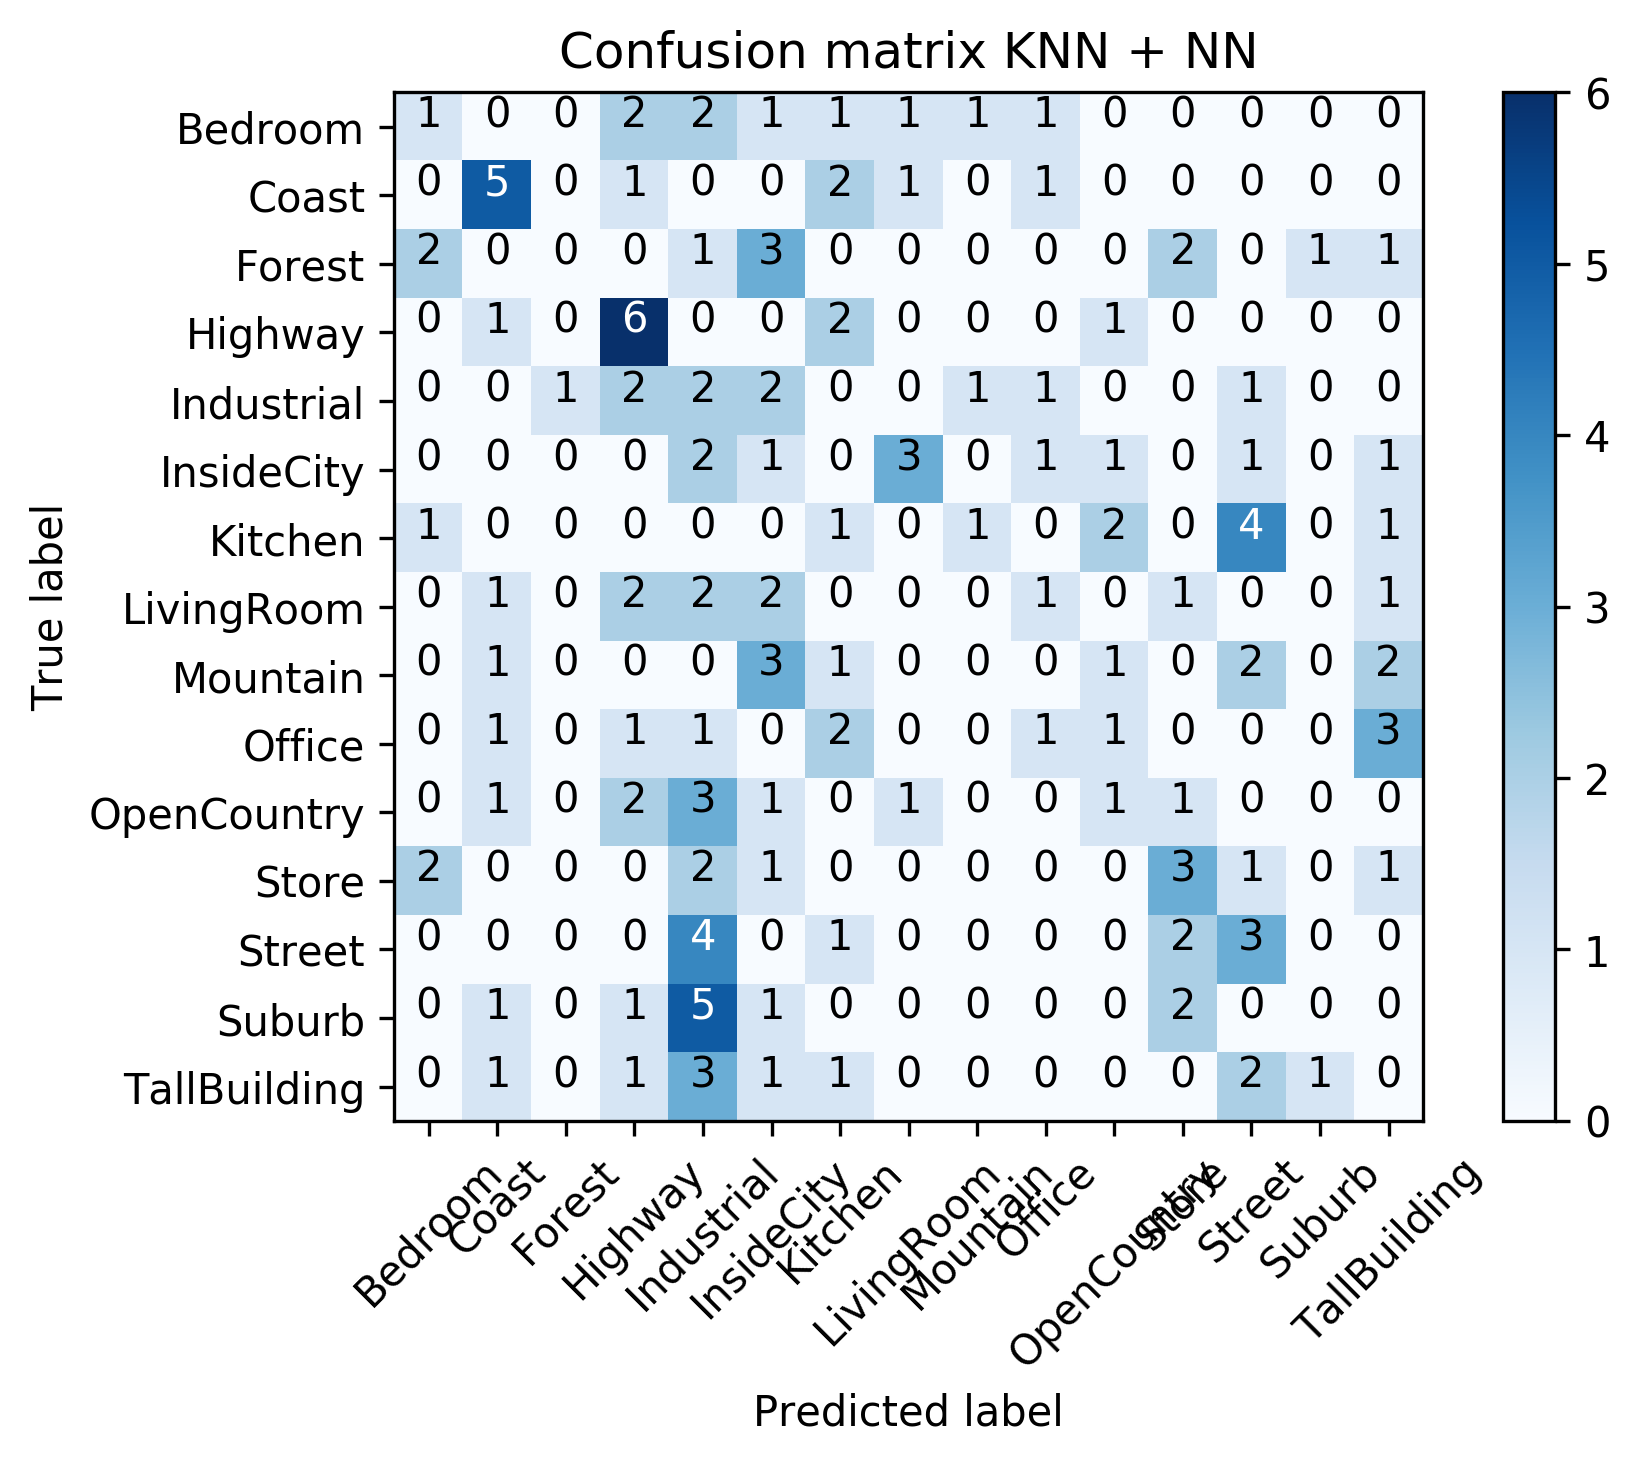
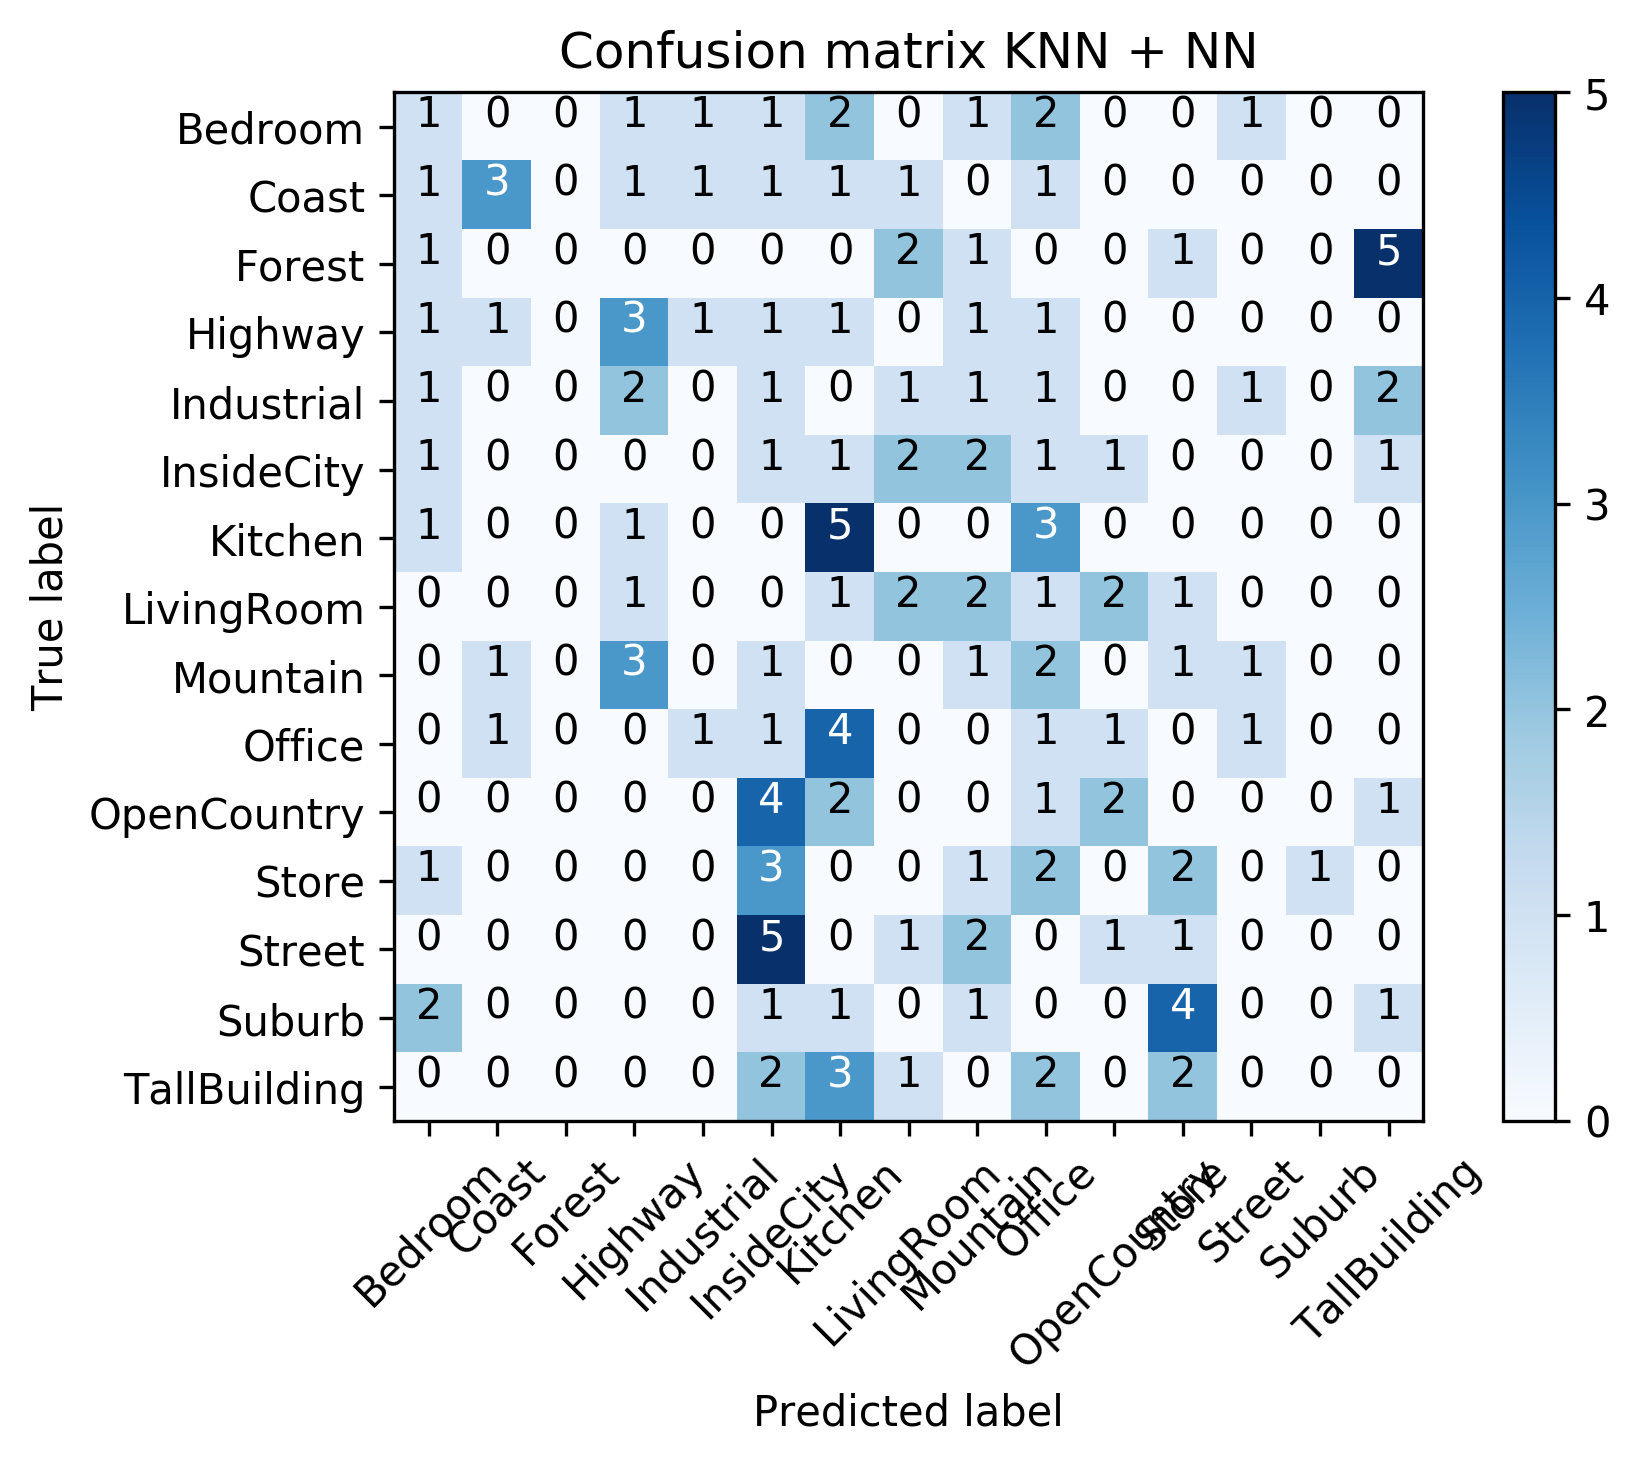
New image from K=5~200

diff --git a/categorize-images/task_2.py b/categorize-images/task_2.py
@@ -16,8 +16,8 @@ import scipy.cluster.vq
 from sklearn.metrics import confusion_matrix
 from plot_confusion_matrix import plot_confusion_matrix
 
-CLUSTER_START = 105
-CLUSTER_END = 201
+CLUSTER_START = 5
+CLUSTER_END = 101
 CLUSTER_STEP = 5
 
 # Function used to read data
@@ -235,7 +235,7 @@ L1_axes.set_ybound([0, 0.7])
 L1_axes.set_title('L1 Performance')
 
 # Save image
-plt.savefig('./task_2_out/L1_performance_2.png', bbox_inches='tight', dpi=300)
+plt.savefig('./task_2_out/L1_performance.png', bbox_inches='tight', dpi=300)
 
 # Create subplot to display multiple bars
 L2_fig, L2_axes = plt.subplots()
@@ -254,6 +254,6 @@ L2_axes.set_ybound([0, 0.7])
 L2_axes.set_title('L2 Performance')
 
 # Save image
-plt.savefig('./task_2_out/L2_performance_2.png', bbox_inches='tight', dpi=300)
+plt.savefig('./task_2_out/L2_performance.png', bbox_inches='tight', dpi=300)
 
 
